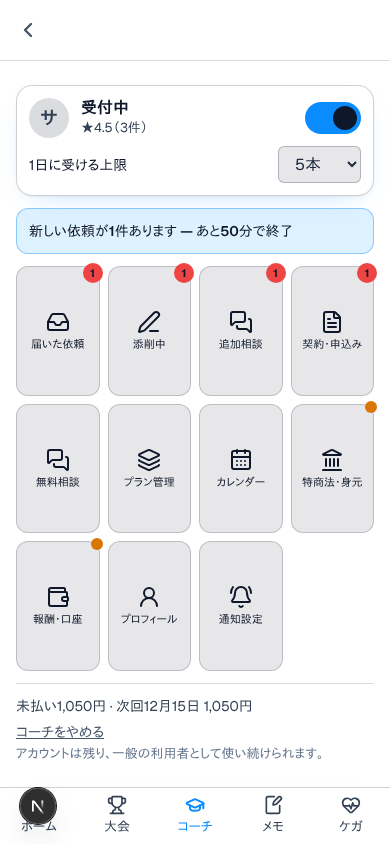
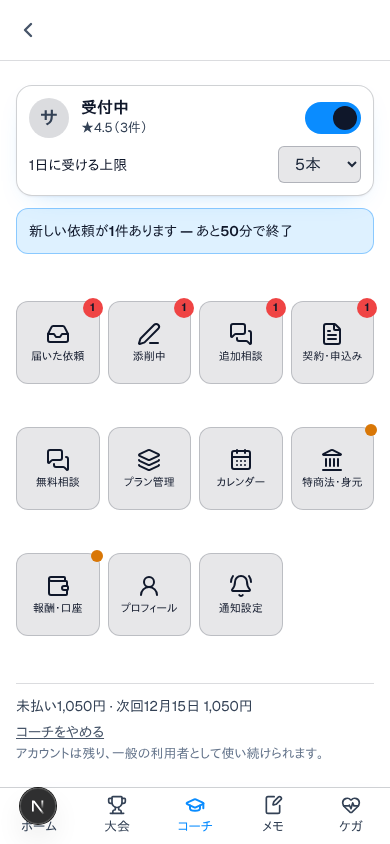
コーチ画面のタイルを正方形のまま保ち、余った高さを行の上下に均等に配る（#563）
運営者の指示でタイルの形を四角（正方形）で維持する。行の高さを引き伸ばす方式をやめ、
aspect-square のタイルを content-evenly で並べて、タイル枠の高さいっぱいに行を配置する。
ブラウザテストを正方形・行間の均等で検証するように更新し、スクリーンショットを撮り直した。

Claude-Session: https://claude.ai/code/session_01R5sRaToqtwutzKQ89NeLuv

diff --git a/apps/web/e2e/coach-launcher.spec.ts b/apps/web/e2e/coach-launcher.spec.ts
@@ -66,6 +66,8 @@ async function measure(page: Page) {
       gridTop: grid.top, gridBottom: grid.bottom, footerTop: footer.top, footerBottom: footer.bottom,
       navTop: bottomNav ? bottomNav.getBoundingClientRect().top : window.innerHeight,
       tileHeights: tiles.map((t) => Math.round(t.height)),
+      squareDiffs: tiles.map((t) => Math.abs(t.width - t.height)),
+      rowTops: [0, 4, 8].map((i) => tiles[i].top), lastRowBottom: tiles[8].bottom,
       scrollHeight: document.documentElement.scrollHeight, innerHeight: window.innerHeight,
     };
   });
@@ -81,30 +83,36 @@ for (const withOffers of [false, true]) {
     expect(m.scrollHeight).toBeLessThanOrEqual(m.innerHeight);
     expect(m.footerBottom).toBeLessThanOrEqual(m.navTop);
     expect(m.navTop - m.footerBottom).toBeLessThanOrEqual(26);
-    // タイルの枠はフッターの直前まで届き（間は gap の 12px）、行は同じ高さで、従来（約70px）より高い。
+    // タイルの枠はフッターの直前まで届き（間は gap の 12px）、タイルは正方形のまま、
+    // 余った高さは行の上下に均等に配られる（上詰め＋下の大きな余白にならない）。
     expect(m.footerTop - m.gridBottom).toBeLessThanOrEqual(26);
-    expect(new Set(m.tileHeights).size).toBe(1);
-    expect(m.tileHeights[0]).toBeGreaterThan(100);
+    expect(Math.max(...m.squareDiffs)).toBeLessThanOrEqual(1);
+    const above = m.rowTops[0] - m.gridTop;
+    const below = m.gridBottom - m.lastRowBottom;
+    expect(above).toBeGreaterThan(20);
+    expect(Math.abs(above - below)).toBeLessThanOrEqual(2);
+    expect(Math.abs((m.rowTops[1] - m.rowTops[0]) - (m.rowTops[2] - m.rowTops[1]))).toBeLessThanOrEqual(2);
     await expect(page.locator("body")).toHaveJSProperty("scrollWidth", 390);
     if (process.env.PLAYWRIGHT_SCREENSHOTS === "1") await page.screenshot({ path: path.join(screenshotDir, `mobile-${name}.png`) });
   });
 }
 
-test("低い画面（390×560）ではタイルが最小の高さを保ち、ページが縦にスクロールする", async ({ page }) => {
+test("低い画面（390×560）ではタイルが正方形のまま潰れず、収まらない分はページが縦にスクロールする", async ({ page }) => {
   await page.setViewportSize({ width: 390, height: 560 });
   await setup(page, true);
   const m = await measure(page);
+  expect(Math.max(...m.squareDiffs)).toBeLessThanOrEqual(1);
   expect(Math.min(...m.tileHeights)).toBeGreaterThanOrEqual(72);
-  expect(m.scrollHeight).toBeGreaterThan(m.innerHeight);
   await page.evaluate(() => window.scrollTo(0, document.documentElement.scrollHeight));
   const end = await measure(page);
   expect(end.footerBottom).toBeLessThanOrEqual(end.navTop);
   if (process.env.PLAYWRIGHT_SCREENSHOTS === "1") await page.screenshot({ path: path.join(screenshotDir, "mobile-short.png") });
 });
 
-test("PC 幅では広げず、従来どおり上から並べる", async ({ page }) => {
+test("PC 幅では広げず、正方形のタイルを上から並べる", async ({ page }) => {
   await page.setViewportSize({ width: 1280, height: 900 });
   await setup(page, false);
   const m = await measure(page);
-  expect(Math.max(...m.tileHeights)).toBeLessThanOrEqual(80);
+  expect(Math.max(...m.squareDiffs)).toBeLessThanOrEqual(1);
+  expect(m.rowTops[0] - m.gridTop).toBeLessThanOrEqual(1);
 });

diff --git a/apps/web/app/coach/coach-dashboard.tsx b/apps/web/app/coach/coach-dashboard.tsx
@@ -78,7 +78,7 @@ function Tile({
     <Link
       href={href}
       aria-label={ariaLabel}
-      className="relative flex min-h-[4.5rem] flex-col items-center justify-center gap-1 rounded-xl border border-white/20 bg-white/10 px-1 py-3 text-center transition active:scale-[0.98]"
+      className="relative flex aspect-square flex-col items-center justify-center gap-1 rounded-xl border border-white/20 bg-white/10 px-1 py-3 text-center transition active:scale-[0.98]"
     >
       <Icon className="size-6" aria-hidden />
       <span className="text-[11px] font-semibold leading-tight">{label}</span>
@@ -213,8 +213,8 @@ export function CoachDashboard() {
   const [, payoutMonth, payoutDay] = earnings?.next_payout_date?.split("-") ?? [];
 
   // スマホでは、ランチャーをヘッダーと下部ナビの間の高さいっぱいに広げる（本体 #563）。
-  // main を縦の flex にし（app/layout.tsx の coach-launcher）、タイルの枠が残りの高さを占めて行を均等に配る。
-  // 行の高さは最小 4.5rem。それより低い画面では広げずに、ページ全体が縦にスクロールする。
+  // main を縦の flex にし（app/layout.tsx の coach-launcher）、タイルの枠が残りの高さを占める。
+  // タイルは正方形のまま、余った高さは行の上下に均等に配る。収まらない低い画面ではページ全体が縦にスクロールする。
   return (
     <div className="coach-launcher mx-auto flex w-full max-w-md flex-col gap-3 max-md:flex-1">
       <section aria-label={t(locale, "coach.status")} className="space-y-2 rounded-2xl border border-white/20 glass bg-white/10 p-3">
@@ -272,7 +272,7 @@ export function CoachDashboard() {
         </Link>
       ) : null}
 
-      <nav aria-label={t(locale, "coach.menu")} className="grid grid-cols-4 auto-rows-[minmax(4.5rem,1fr)] gap-2 max-md:flex-1">
+      <nav aria-label={t(locale, "coach.menu")} className="grid grid-cols-4 content-evenly gap-2 max-md:flex-1">
         <Tile locale={locale} href="/coach/offers" label={t(locale, "coach.tile.offers")} Icon={Inbox} badge={offerCount} />
         <Tile locale={locale} href="/coach/reviewing" label={t(locale, "coach.tile.reviewing")} Icon={PenLine} badge={reviewingCount} />
         <Tile locale={locale} href="/coach/consultations" label={t(locale, "coach.tile.consultations")} Icon={MessagesSquare} badge={consultations} />
